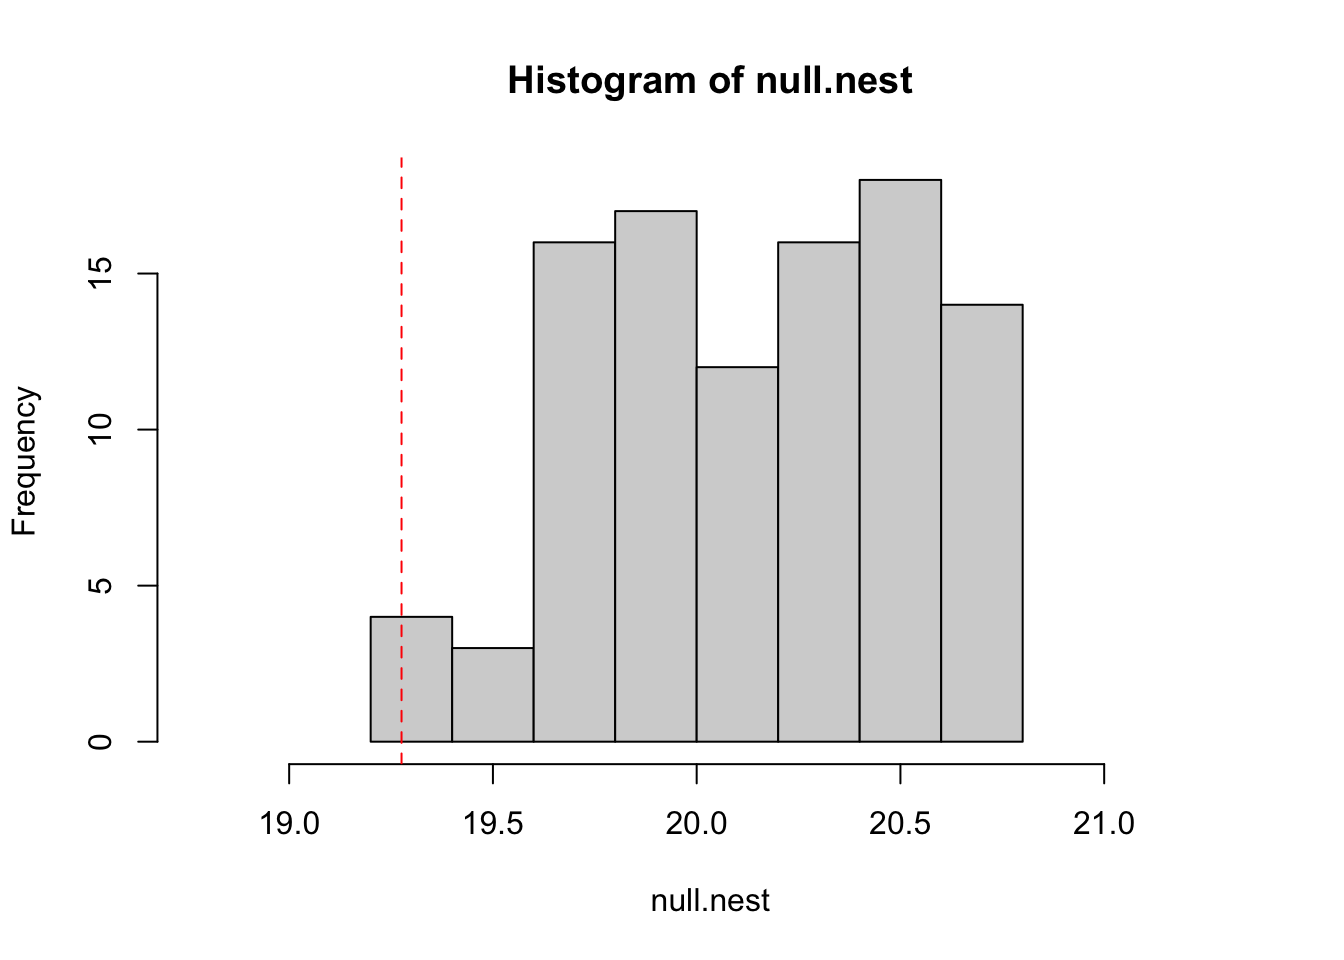
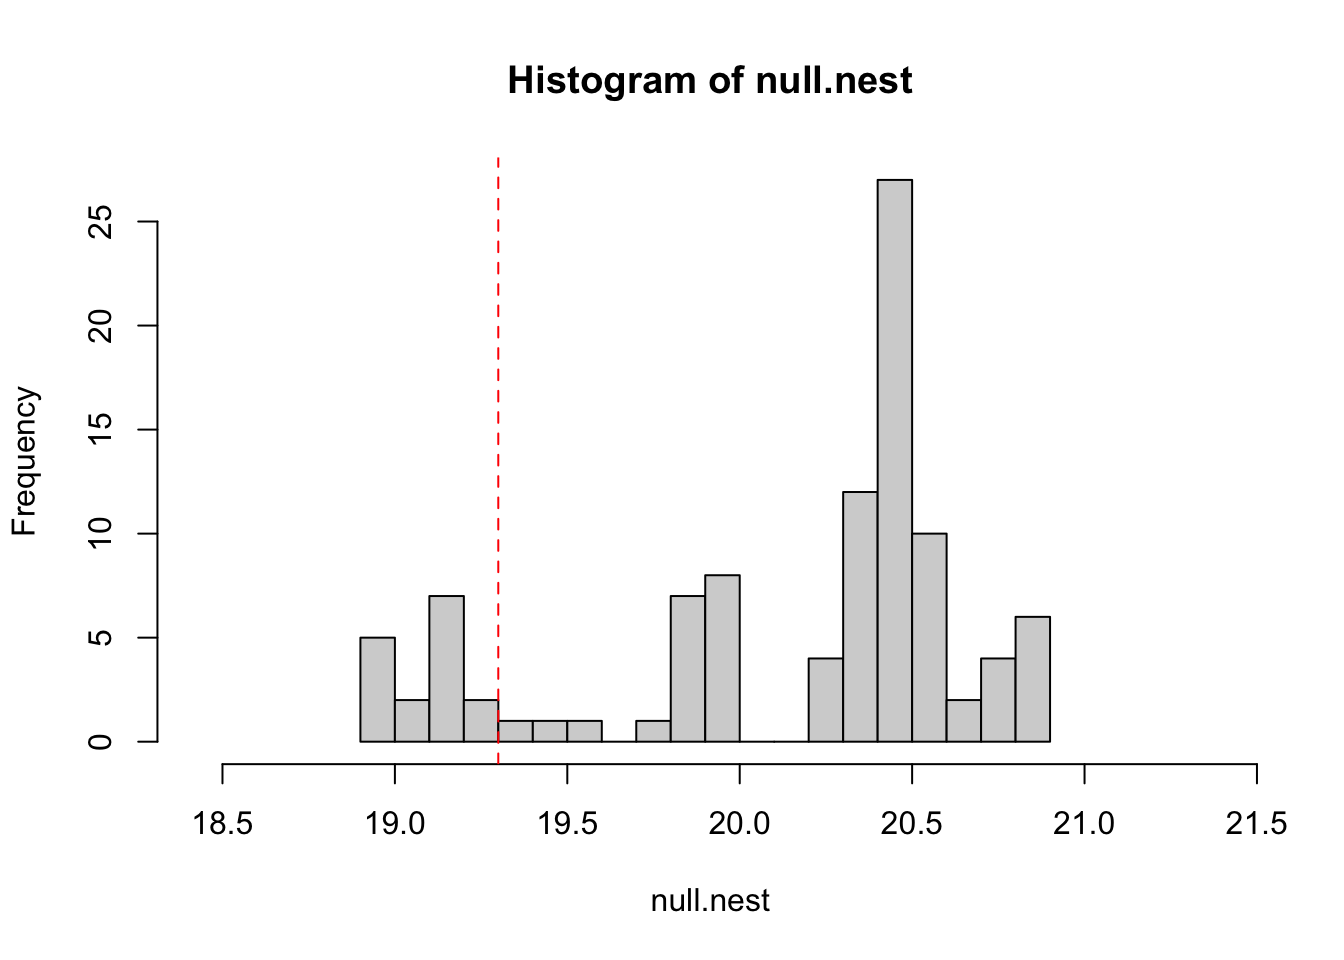
tutorial update

diff --git a/example_Burkle2013.html b/example_Burkle2013.html
@@ -486,22 +486,22 @@ ne.old=nestedtemp(old.bip)$statistic
 nm=vegan::nullmodel(old.bip, method=&quot;swap&quot;)
 nulls=simulate(nm, nsim=100)
 null.nest=apply(nulls, 3, function(x) nestedtemp(x)$statistic)
-hist(null.nest, xlim=c(min(null.nest)-0.5, max(null.nest)+0.5))
+hist(null.nest, xlim=c(min(null.nest)-0.5, max(null.nest)+0.5), breaks=20)
 abline(v=ne.old, col=&quot;red&quot;, lty=2)</code></pre>
 <p><img src="example_Burkle2013_files/figure-html/unnamed-chunk-14-1.png" width="672" /></p>
 <pre class="r"><code>p.old=(length(which(null.nest&lt;=ne.old))+1)/101 
 p.old</code></pre>
-<pre><code>## [1] 0.00990099</code></pre>
+<pre><code>## [1] 0.1683168</code></pre>
 <pre class="r"><code>ne.new=nestedtemp(new.bip)$statistic
 nm=vegan::nullmodel(new.bip, method=&quot;swap&quot;)
 nulls=simulate(nm, nsim=100)
 null.nest=apply(nulls, 3, function(x) nestedtemp(x)$statistic)
-hist(null.nest)
+hist(null.nest, breaks=20)
 abline(v=ne.new, col=&quot;red&quot;, lty=2)</code></pre>
 <p><img src="example_Burkle2013_files/figure-html/unnamed-chunk-14-2.png" width="672" /></p>
 <pre class="r"><code>p.new=(length(which(null.nest&lt;=ne.new))+1)/101 
 p.new</code></pre>
-<pre><code>## [1] 0.00990099</code></pre>
+<pre><code>## [1] 0.1683168</code></pre>
 </div>
 
 
